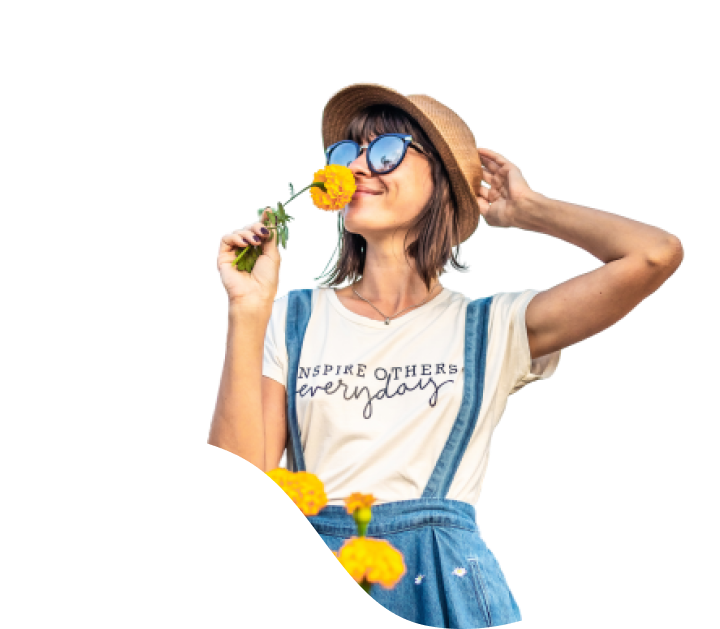
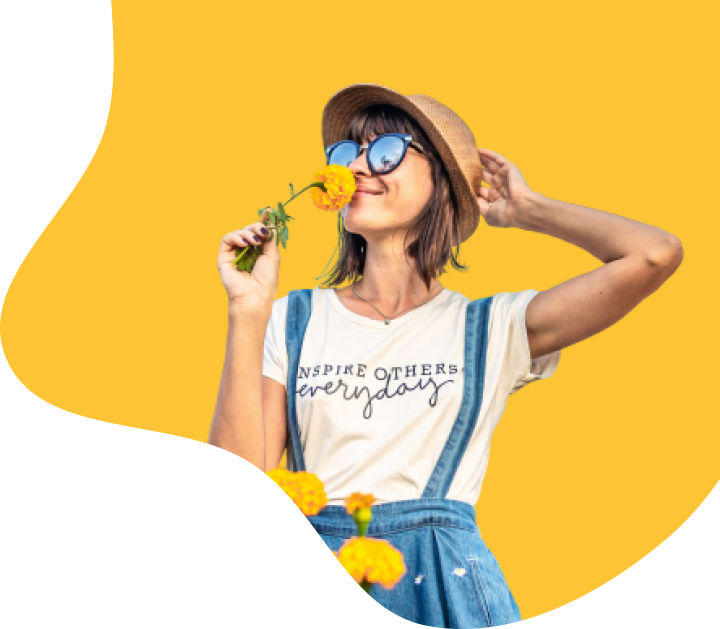
refound hero and navbar

diff --git a/src/components/Hero/Hero.jsx b/src/components/Hero/Hero.jsx
@@ -1,7 +1,5 @@
-import Container from '../layout/Container';
 import Button from '../ui/Button';
 import { site } from '../../data/site';
-import HeroBlob from './HeroBlob';
 
 export default function Hero() {
   const { hero } = site;
@@ -10,11 +8,12 @@ export default function Hero() {
     <section
       id="hero"
       aria-labelledby="hero-heading"
-      className="bg-white py-4 md:py-8 lg:py-12"
+      className="relative overflow-hidden bg-white"
     >
-      <Container>
-        <div className="flex flex-col items-center gap-10 lg:flex-row lg:items-center lg:gap-16">
-          <div className="w-full max-w-xl lg:flex-1">
+
+      <div className="relative flex flex-col lg:min-h-screen lg:flex-row">
+        <div className="flex w-full items-center justify-center px-6 pb-10 sm:px-10 md:px-12 lg:w-1/2 lg:px-16 lg:pb-12 xl:px-20">
+          <div className="w-full max-w-md">
             <span
               aria-hidden="true"
               className="mb-4 block h-1 w-12 bg-primary"
@@ -30,7 +29,7 @@ export default function Hero() {
               <br />
               {hero.name}
             </h1>
-            <p className="mt-6 max-w-lg font-sans text-base leading-relaxed text-muted">
+            <p className="mt-6 font-sans text-base leading-relaxed text-muted">
               {hero.description}
             </p>
             <div className="mt-8 flex flex-wrap gap-4">
@@ -42,21 +41,17 @@ export default function Hero() {
               </Button>
             </div>
           </div>
-          <div className="relative mx-auto w-full max-w-md flex-shrink-0 lg:mx-0 lg:max-w-none lg:flex-1">
-            <div className="relative mx-auto aspect-[396/496] w-full max-w-[396px]">
-              <HeroBlob />
-              <img
-                src={'/assets/images/hero.png'}
-                alt="Madelyn Torff, UI/UX designer, smiling with a yellow flower"
-                width={396}
-                height={496}
-                loading="eager"
-                className="relative z-10 h-full w-full object-contain object-bottom"
-              />
-            </div>
-          </div>
         </div>
-      </Container>
+
+        <div className="flex w-full items-start lg:w-1/2 lg:pt-6">
+          <img
+            src="/assets/images/hero.png"
+            alt="Madelyn Torff, UI/UX designer, smiling with a yellow flower"
+            loading="eager"
+            className="h-auto w-full object-contain object-top object-right"
+          />
+        </div>
+      </div>
     </section>
   );
 }

diff --git a/src/components/Navbar/Navbar.jsx b/src/components/Navbar/Navbar.jsx
@@ -1,7 +1,6 @@
 import { useState } from 'react';
 import Container from '../layout/Container';
 import { site } from '../../data/site';
-import Header from '../layout/Header';
 
 export default function Navbar() {
   const [menuOpen, setMenuOpen] = useState(false);
@@ -10,8 +9,8 @@ export default function Navbar() {
   const closeMenu = () => setMenuOpen(false);
 
   return (
-    <Header>
-      <Container className="flex items-center justify-between py-6">
+    <header className="absolute inset-x-0 top-0 z-20 bg-transparent">
+      <Container className="relative flex items-center justify-between bg-transparent py-6">
         <a
           href="#hero"
           className="font-sans text-lg font-bold text-dark focus:outline-none focus-visible:ring-2 focus-visible:ring-primary focus-visible:ring-offset-2"
@@ -28,7 +27,9 @@ export default function Navbar() {
           aria-label={menuOpen ? 'Close menu' : 'Open menu'}
           onClick={toggleMenu}
         >
-          <span className="sr-only">{menuOpen ? 'Close menu' : 'Open menu'}</span>
+          <span className="sr-only">
+            {menuOpen ? 'Close menu' : 'Open menu'}
+          </span>
           {menuOpen ? (
             <svg
               className="h-6 w-6"
@@ -37,7 +38,7 @@ export default function Navbar() {
               stroke="currentColor"
               strokeWidth="2"
               aria-hidden="true"
-            >
+              >
               <path strokeLinecap="round" d="M6 6l12 12M18 6L6 18" />
             </svg>
           ) : (
@@ -48,7 +49,7 @@ export default function Navbar() {
               stroke="currentColor"
               strokeWidth="2"
               aria-hidden="true"
-            >
+              >
               <path strokeLinecap="round" d="M4 7h16M4 12h16M4 17h16" />
             </svg>
           )}
@@ -59,22 +60,22 @@ export default function Navbar() {
           aria-label="Main"
           className={`${
             menuOpen
-              ? 'absolute left-0 right-0 top-full flex flex-col gap-4 border-t border-dark/10 bg-white px-4 py-6 shadow-card'
-              : 'hidden'
+            ? 'absolute left-0 right-0 top-full flex flex-col gap-4 border-t border-dark/10 bg-white px-4 py-6 shadow-card'
+            : 'hidden'
           } md:static md:flex md:flex-row md:items-center md:gap-10 md:border-0 md:bg-transparent md:p-0 md:shadow-none`}
-        >
+          >
           {site.navLinks.map(({ label, href }) => (
             <a
               key={href}
               href={href}
               className="font-sans text-base font-semibold text-dark transition-colors hover:text-primary focus:outline-none focus-visible:ring-2 focus-visible:ring-primary focus-visible:ring-offset-2"
               onClick={closeMenu}
-            >
+              >
               {label}
             </a>
           ))}
         </nav>
       </Container>
-    </Header>
+    </header>
   );
 }

diff --git a/src/components/index.js b/src/components/index.js
@@ -1,7 +1,8 @@
-import Navbar from './Navbar/Navbar';
-import Hero  from './Hero/Hero';
+import Hero from './Hero/Hero';
+import Projects from './Projects/Projects';
 import Button from './ui/Button';
 import Container from './layout/Container';
-import SectionHeading from './layout/Header';
+import SectionHeading from './layout/SectionHeading';
+import Navbar from './Navbar/Navbar';
 
-export { Navbar, Hero, Button, Container, SectionHeading };
+export { Hero, Projects, Button, Container, SectionHeading, Navbar };

diff --git a/src/components/ui/Button.jsx b/src/components/ui/Button.jsx
@@ -12,10 +12,19 @@ export default function Button({
   variant = 'primary',
   children,
   className = '',
+  href,
   type = 'button',
   ...rest
 }) {
   const classes = `${baseStyles} ${variantStyles[variant] ?? variantStyles.primary}${className ? ` ${className}` : ''}`;
+
+  if (href) {
+    return (
+      <a href={href} className={classes} {...rest}>
+        {children}
+      </a>
+    );
+  }
 
   return (
     <button type={type} className={classes} {...rest}>